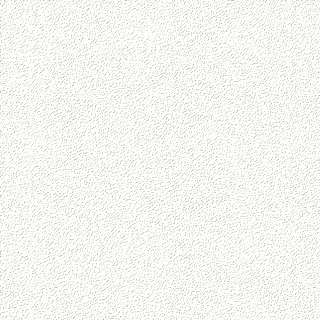
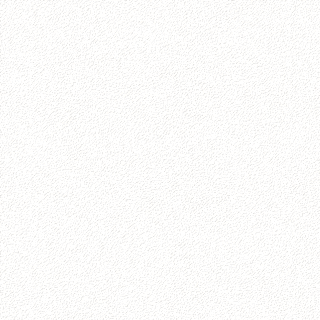
Dock waits for scroll, floats without tilting; quieter paper behind text
The floating covers stay hidden until you scroll, don't tilt toward the
cursor while docked, and lift slightly on hover. The paper drops most of
its fine dark detail so text reads clean.

diff --git a/components/IssueDock.tsx b/components/IssueDock.tsx
@@ -10,6 +10,7 @@ import { useEffect } from "react";
 const SCALE = 0.36; // docked size, relative to the cover on the shelf
 const GAP = 14; // space between docked covers, px
 const BOTTOM = 22; // docked row's distance from the bottom of the screen, px
+const WAKE = 40; // how far you scroll before the dock shows up, px
 
 const ease = (t: number) => (t < 0.5 ? 4 * t * t * t : 1 - Math.pow(-2 * t + 2, 3) / 2);
 
@@ -56,6 +57,8 @@ export function IssueDock() {
         c.style.transform = e === 1 ? "" : `translate3d(${(dx * k).toFixed(1)}px, ${(dy * k).toFixed(1)}px, 0) scale(${(SCALE + (1 - SCALE) * e).toFixed(4)})`;
         c.style.setProperty("--dock", k.toFixed(3));
         c.toggleAttribute("data-docked", e < 1);
+        // Stay out of the way on first load; the dock rises in once you start scrolling.
+        c.toggleAttribute("data-dock-waiting", y < WAKE);
       });
     };
 
@@ -86,6 +89,7 @@ export function IssueDock() {
         c.style.transform = "";
         c.style.removeProperty("--dock");
         c.removeAttribute("data-docked");
+        c.removeAttribute("data-dock-waiting");
       });
     };
     const sync = () => (wide.matches ? start() : stop());

diff --git a/app/globals.css b/app/globals.css
@@ -124,6 +124,25 @@
 }
 .dock-bob {
   animation: dock-bob 4.2s ease-in-out infinite;
+  transition:
+    opacity 0.45s ease,
+    translate 0.55s cubic-bezier(0.2, 0.8, 0.2, 1),
+    scale 0.3s cubic-bezier(0.2, 0.8, 0.2, 1);
+}
+/* While floating they don't tilt toward the cursor; hovering one just lifts it a little. */
+[data-docked] .cover-tilt {
+  transform: none;
+}
+@media (hover: hover) {
+  [data-docked] .dock-bob:hover {
+    scale: 1.06;
+  }
+}
+/* Before you scroll, the docked covers wait just below their spot, hidden and not clickable. */
+[data-docked][data-dock-waiting] .dock-bob {
+  opacity: 0;
+  translate: 0 60px;
+  pointer-events: none;
 }
 [data-docked] .dock-bob > * {
   filter: drop-shadow(0 calc(var(--dock, 0) * 26px) calc(var(--dock, 0) * 22px) oklch(0.2 0.02 60 / calc(var(--dock, 0) * 0.35)));
